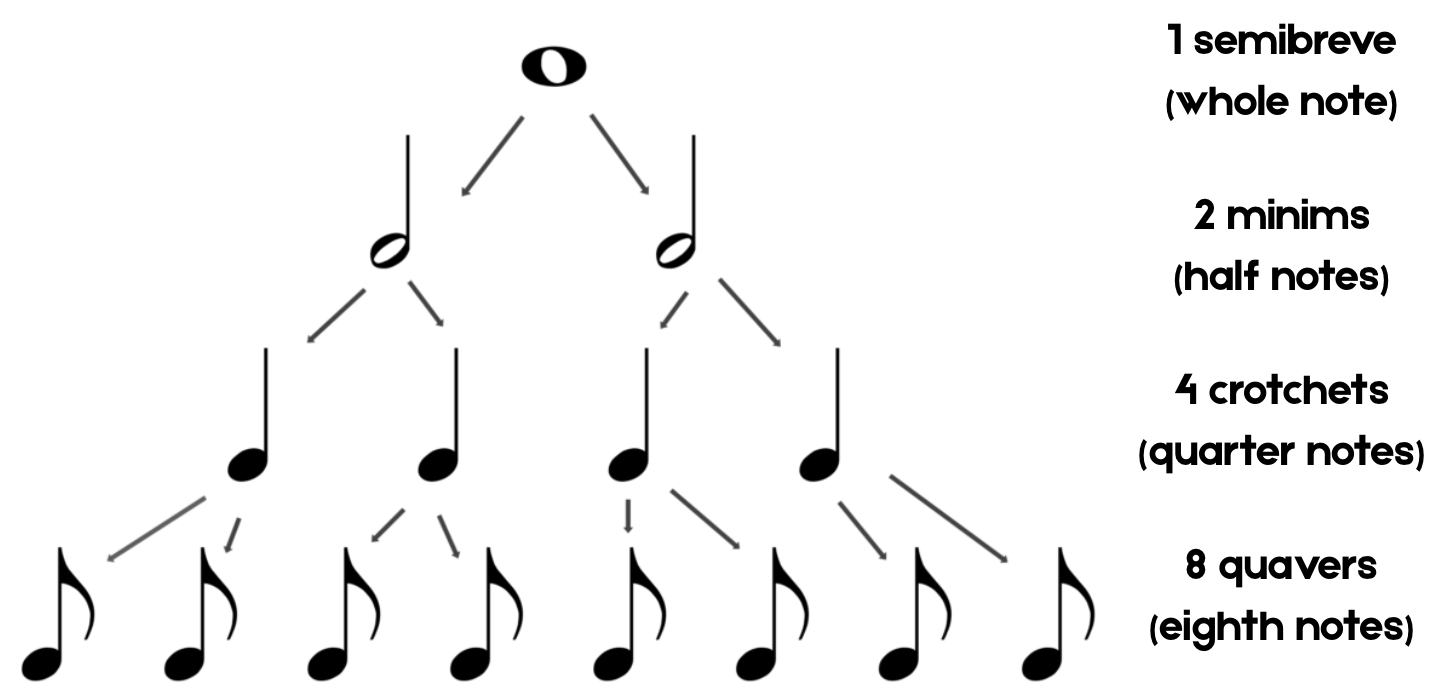
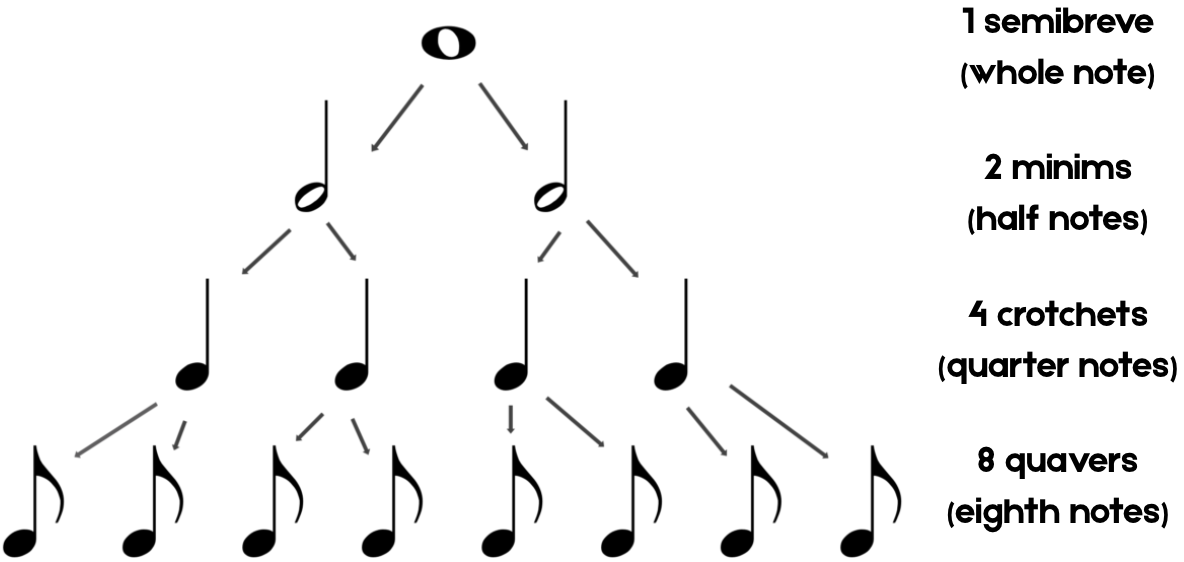
level 4 complete

diff --git a/rhythmLevels.py b/rhythmLevels.py
@@ -18,12 +18,12 @@ levels = [
     'img' : 'note_value_chart.png',
     'icon' : 'lesson',
     'excerpts' : [
-        'level_2_excerpt_1.mp3',
-        'level_2_excerpt_2.mp3',
+        'rhythm_lvl2_ex1.mp3',
+        'rhythm_lvl2_ex2.mp3',
     ],
     'excerptImg' : [
-        'excerpt_1_notes.png',
-        'excerpt_2_notes.png',
+        'rhythm_lvl2_img1.png',
+        'rhythm_lvl2_img2.png',
     ]
     },
 
@@ -35,14 +35,25 @@ levels = [
     'text' : 'Now you will get to practice different rhythms! After clicking start, you will hear a four beat count in. Click the space bar to match the rhythm of the notes on the screen.',
     'icon' : 'quaver',
     },
+
     { # level 4
     'section' : 'rhythm',
     'order' : 4,
     'lessonType' : 'lesson',
     'title' : 'Rest Notes',
-    'text' : '',
+    'text' : 'Music is the art of both sound AND silence. As important as it is knowing when to play, it is also important to know when NOT to play. "Rests" are notes that tell us when to not play. Similarly to the previous lesson, there are different note values for each rest.',
+    'img' : 'rest_value_chart.png',
     'icon' : 'lesson',
+    'excerpts' : [
+        'rhythm_lvl4_ex1.mp3',
+        'rhythm_lvl4_ex2.mp3',
+    ],
+    'excerptImg' : [
+        'rhythm_lvl4_img1.png',
+        'rhythm_lvl4_img2.png',
+    ]
     },
+
     { # level 5
     'section' : 'rhythm',
     'order' : 5,
@@ -51,14 +62,16 @@ levels = [
     'text' : '',
     'icon' : 'quaver',
     },
+
     { # level 6
     'section' : 'rhythm',
     'order' : 6,
     'lessonType' : 'lesson',
     'title' : 'Time Signatures',
-    'text' : '',
+    'text' : 'A time signature is the musical notation that dictates the pulse and rhythmic feel of a piece. It lets us know how to count before we start playing.',
     'icon' : 'lesson',
     },
+
     { # level 7
     'section' : 'rhythm',
     'order' : 7,
@@ -67,14 +80,16 @@ levels = [
     'text' : '',
     'icon' : 'quaver',
     },
+
     { # level 8
     'section' : 'rhythm',
     'order' : 8,
     'lessonType' : 'lesson',
     'title' : 'Tempo',
-    'text' : '',
+    'text' : 'Tempo is the speed of a musical piece, and is it measured in beats per minute (BPM).',
     'icon' : 'lesson',
     },
+
     { # level 9
     'section' : 'rhythm',
     'order' : 9,
@@ -83,6 +98,7 @@ levels = [
     'text' : '',
     'icon' : 'quaver',
     },
+
     { # level 10
     'section' : 'rhythm',
     'order' : 10,

diff --git a/screens/lesson.py b/screens/lesson.py
@@ -16,8 +16,8 @@ class lessonScreen(baseScreen):
         self.lesson_image = None
         if self.data.get("img"):
             image_path = os.path.join(os.getcwd(), 'img', self.data["img"])
-            self.lesson_image = pygame.image.load(image_path).convert_alpha()
-            self.lesson_image = pygame.transform.scale(self.lesson_image, (475, 250))
+            self.lesson_image_original = pygame.image.load(image_path).convert_alpha()
+            self.lesson_image = pygame.transform.smoothscale(self.lesson_image_original, (544, 260))
 
         #sound excerpts
         self.audio = excerptPlayer()
@@ -26,8 +26,8 @@ class lessonScreen(baseScreen):
         
         for image_name in self.data.get("excerptImg", []):
             image_path = os.path.join(os.getcwd(), 'img', image_name)
-            image = pygame.image.load(image_path).convert_alpha()
-            image = pygame.transform.scale(image, (320, 80))
+            image_original = pygame.image.load(image_path).convert_alpha()
+            image = pygame.transform.smoothscale(image_original, (501, 91))
             self.excerpt_images.append(image)
         
         for excerpt in self.excerpts:
@@ -39,7 +39,7 @@ class lessonScreen(baseScreen):
 
         for i, excerpt in enumerate(self.excerpts):
 
-            button = Button(width*(11/20), height*(11/20) + i * 120, self.playButton, (50, 50), lambda e=excerpt: self.audio.play(e)) #lambda etc. makes sure each sound is played besides just the last one
+            button = Button(width*(13/25), height*(11/20) + i * 120, self.playButton, (50, 50), lambda e=excerpt: self.audio.play(e)) #lambda etc. makes sure each sound is played besides just the last one
             image = self.excerpt_images[i]
             self.excerpt_items.append({
                 "button": button,
@@ -68,7 +68,7 @@ class lessonScreen(baseScreen):
 
         #images
         if self.lesson_image:
-            self.screen.blit(self.lesson_image, (width/12, y + 10))
+            self.screen.blit(self.lesson_image, (width/12, y + 5))
 
         #listening excerpts
         for item in self.excerpt_items:
@@ -77,7 +77,7 @@ class lessonScreen(baseScreen):
 
             button.draw(self.screen)
 
-            image_x = button.rect.x + 100
+            image_x = button.rect.x + 80
             image_y = button.rect.y - 20
 
             self.screen.blit(image, (image_x, image_y))